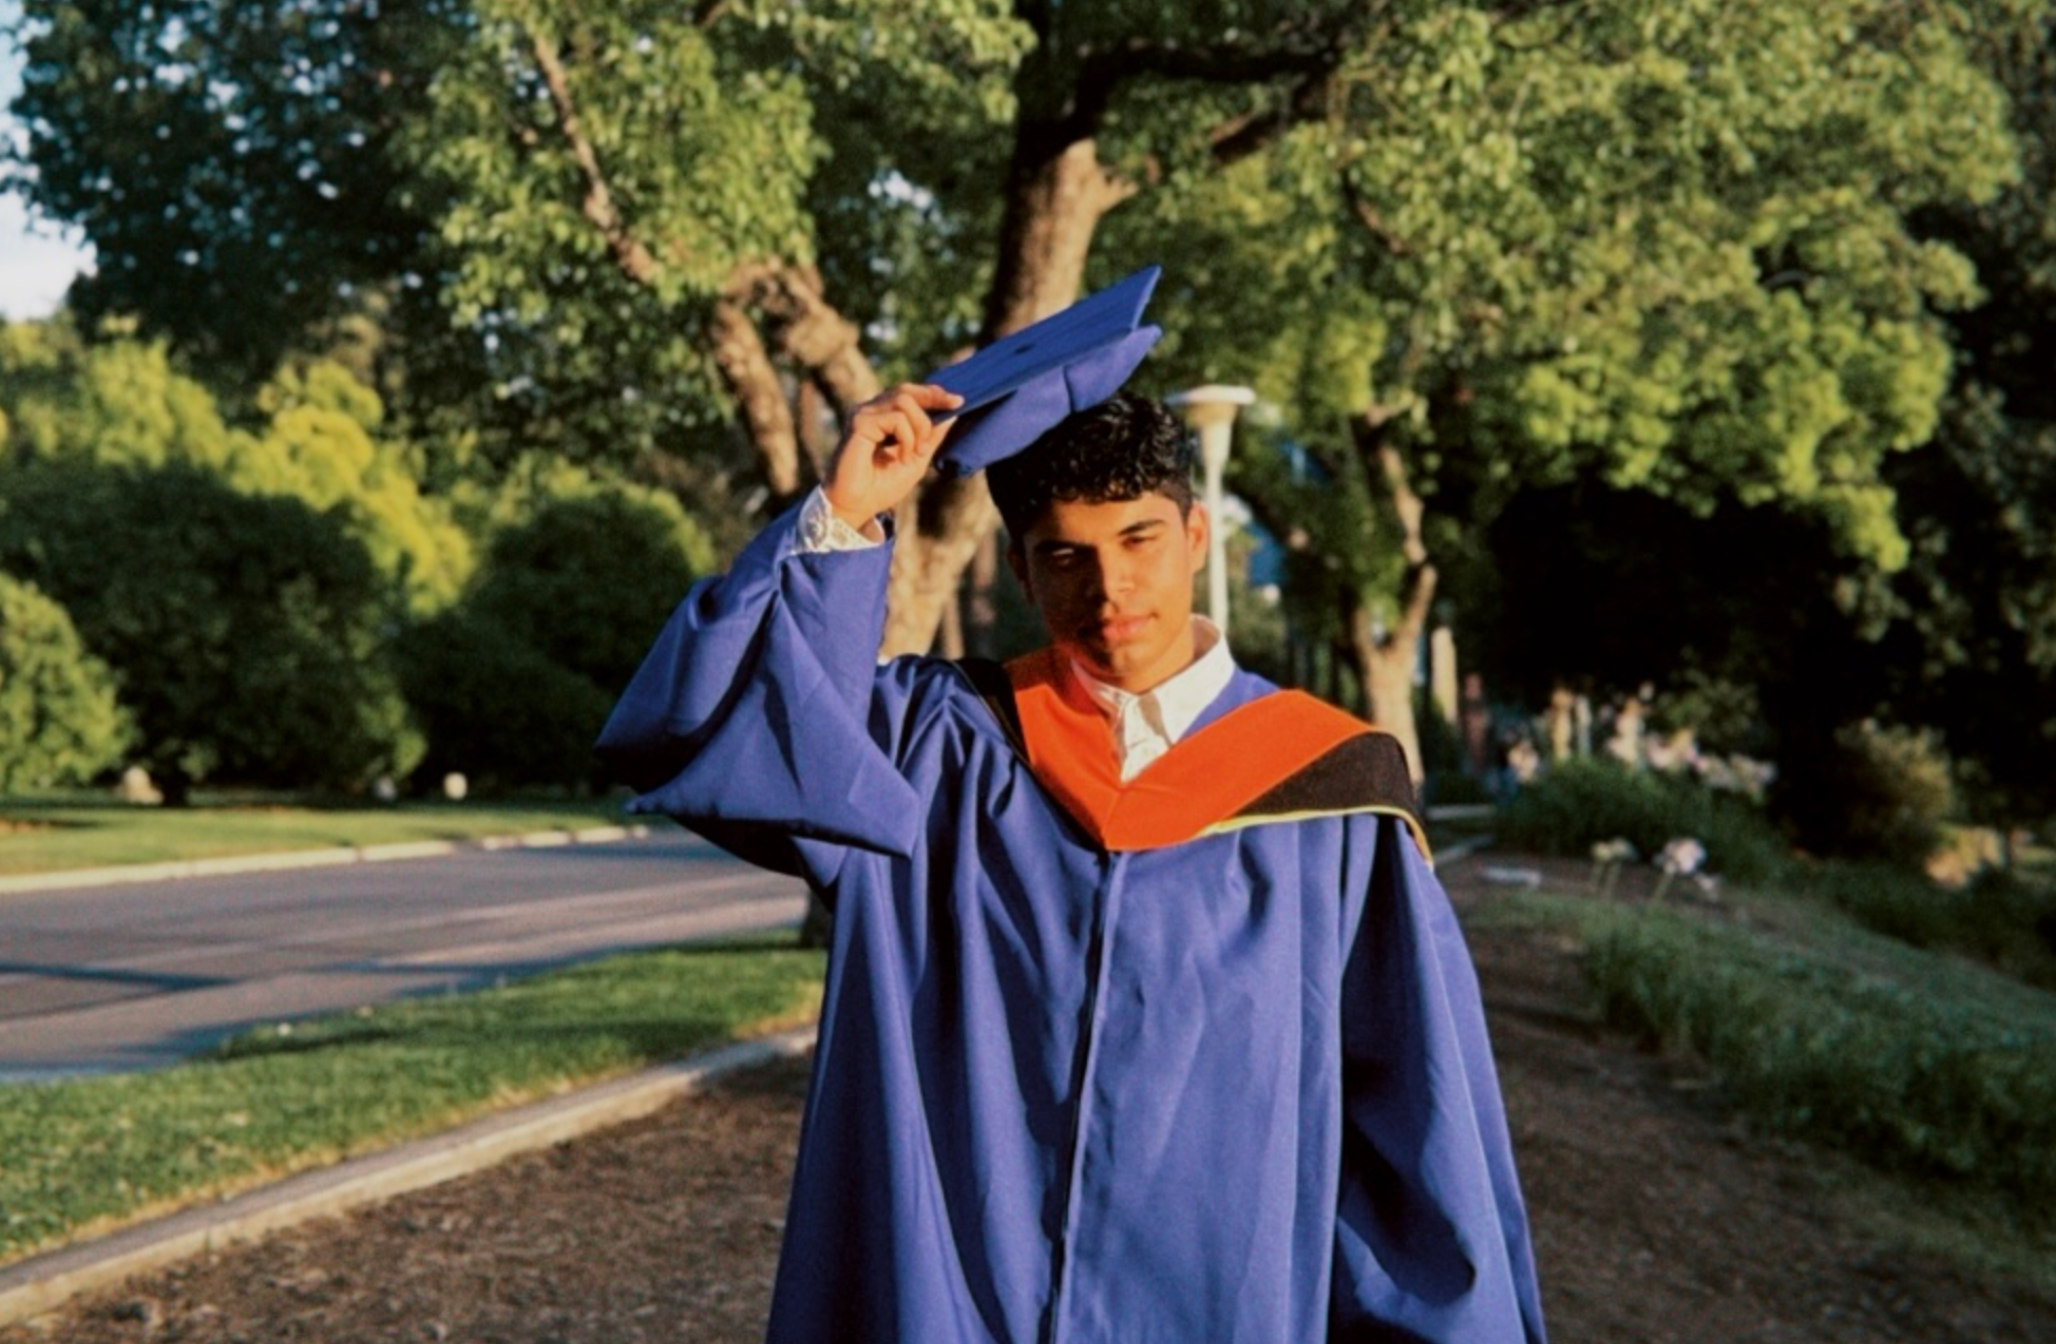
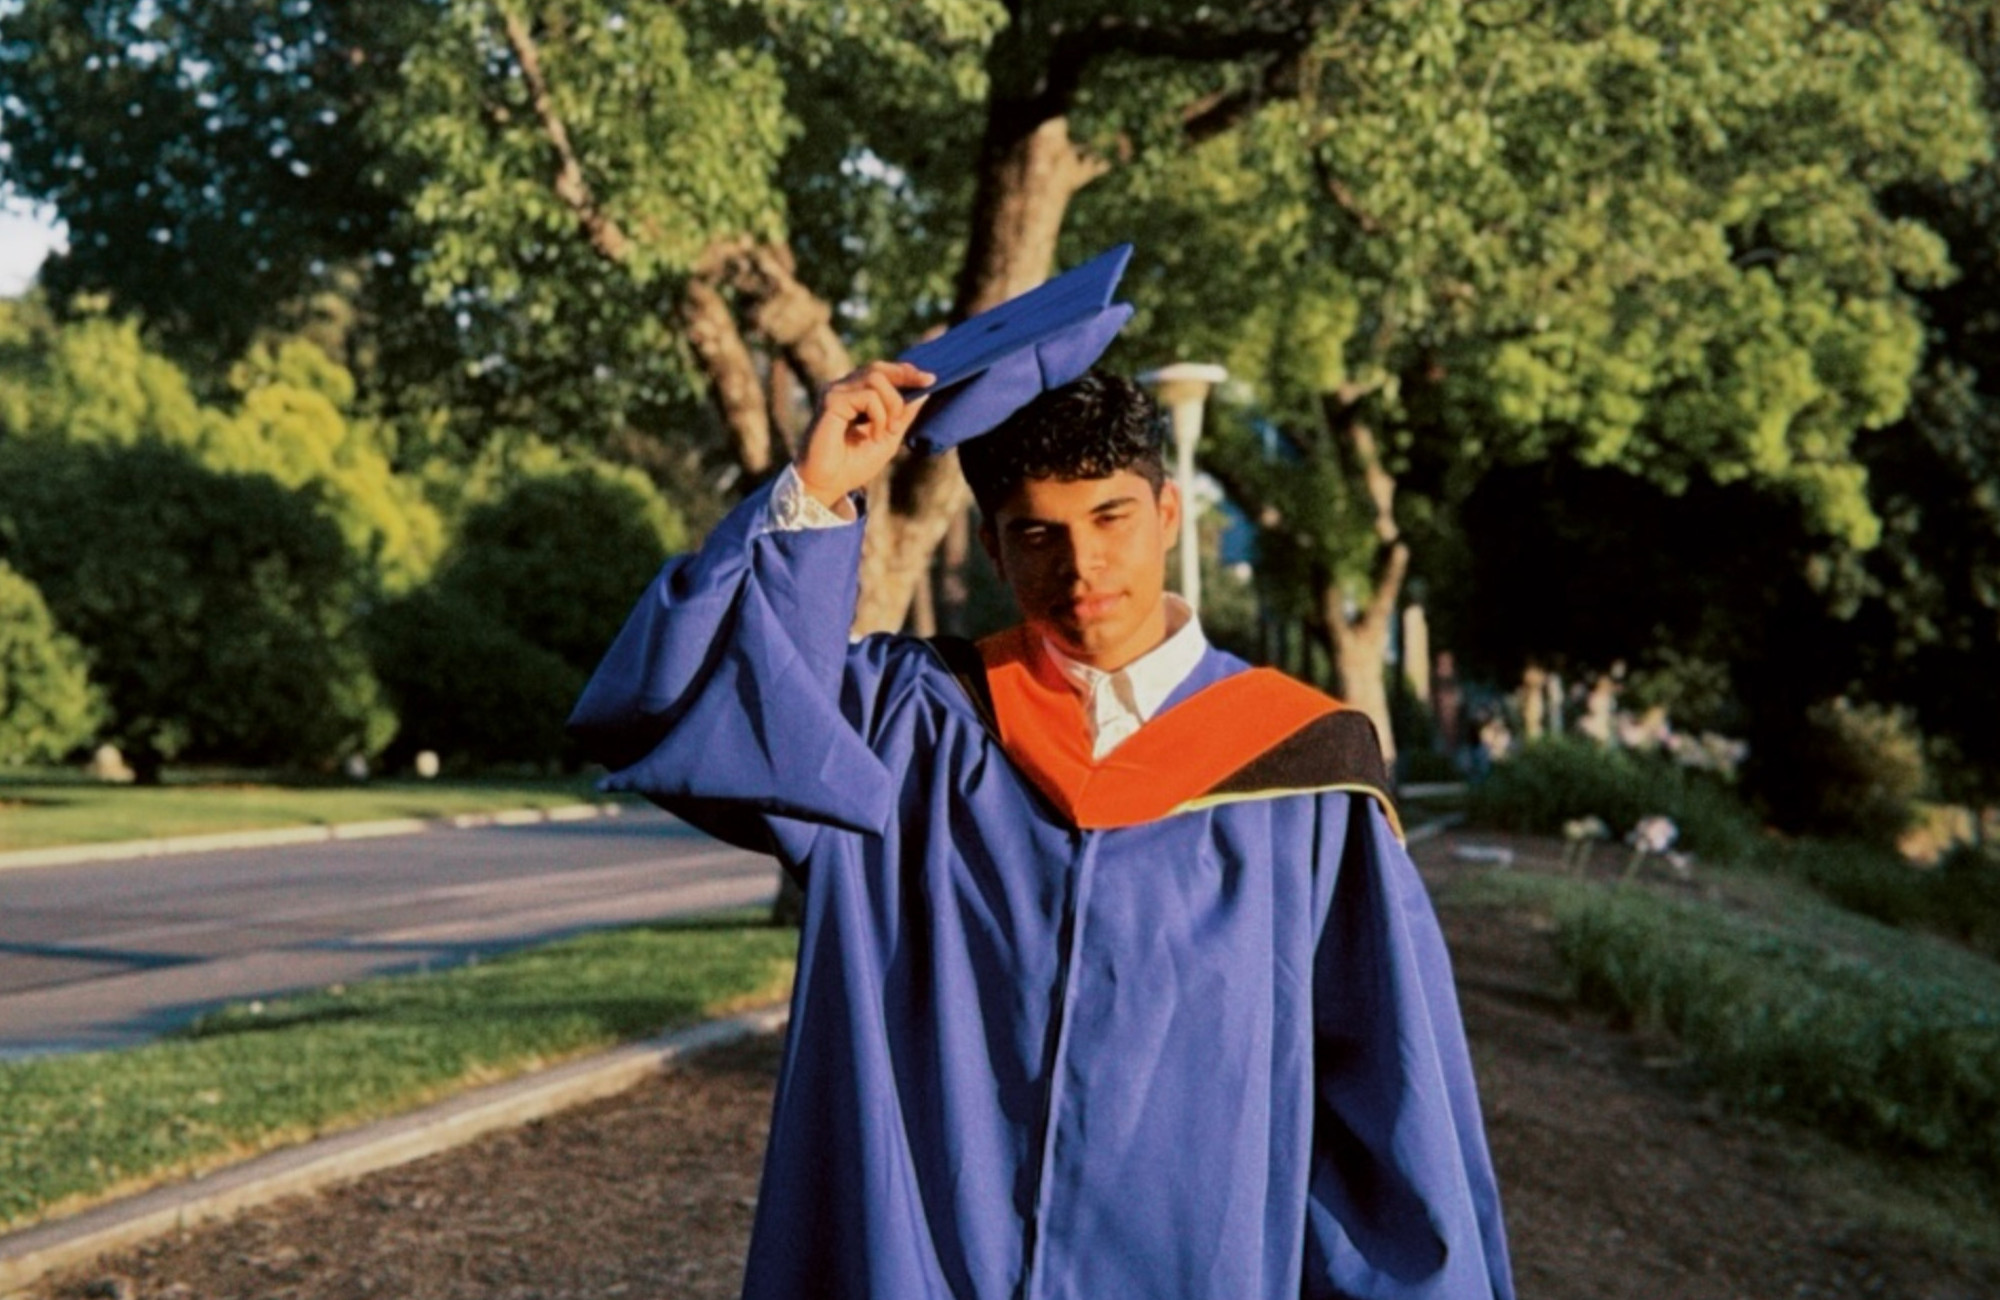
team update

diff --git a/_pages/team.md b/_pages/team.md
@@ -6,39 +6,41 @@ header:
   overlay_color: "#FFF"
   overlay_filter: "0"
   overlay_image: /assets/splash/brain3a.jpg
-manuel:
-  - image_path: /assets/team/manuel.jpg
+Manuel:
+  - image_path: /assets/team/2026_9_Manuel.jpg
     title: "Manuel Schottdorf, Ph.D."
-    excerpt: "Manuel studied physics before completing a Ph.D. at Max Planck in Germany and a Postdoc at the Princeton Neuroscience Institute. He enjoys developing scientific instrumentation and won numerous awards over the years, among them a Boehringer Ingelheim Fonds PhD Fellowship, an Otto Hahn medal, and a Burroughs Wellcome Fund's Career Award. In addition to science, Manuel's interests include labor rights and he was an organizing committee member for the postdoc union at Princeton.<br/><br/>
-    Find Manuel's full CV [here](/assets/pdfs/CV_manuel.pdf).&nbsp;&nbsp;&nbsp;&nbsp;Send Manuel an [e-mail](mailto:maschott-at-udel.edu)."
-suhyeong:
-  - image_path: /assets/team/2025_4_suhyeong.jpg
-    title: "SuHyeong Kim, Ph.D."
-    excerpt: "SuHyeong earned her Ph.D. in Neuroscience from the University of Delaware, where she was co-advised by Dr. Amy Griffin and Dr. Anna Klintsova. Her doctoral research focused on how developmental alcohol exposure alters cognitive function later in life, using in vivo electrophysiology, immunohistochemistry, and behavioral analysis. Through this work, she developed a growing interest in the complexity of neural circuits involved in memory and decision-making, particularly in how these circuits interact with external sensory inputs such as visual stimuli and perception. Outside the lab, SuHyeong enjoys photography and traveling."
-mubariz:
-  - image_path: /assets/team/2025_7_mubariz.jpg
+    excerpt: "Manuel studied physics before completing a Ph.D. at Max Planck in Germany and a Postdoc at the Princeton Neuroscience Institute. He enjoys developing scientific instrumentation and won numerous awards over the years, among them a Boehringer Ingelheim Fonds PhD Fellowship, an Otto Hahn medal, and a Burroughs Wellcome Fund's Career Award. In addition to science, Manuel's interests include labor rights and he was an organizing committee member for the postdoc union at Princeton.&nbsp;&nbsp;&nbsp;&nbsp;Send Manuel an [e-mail](mailto:maschott-at-udel.edu)."
+Mubariz:
+  - image_path: /assets/team/2025_7_Mubariz.jpg
     title: "Mubariz Mohammed"
-    excerpt: "Mubariz began his academic journey in computer science before pivoting toward healthcare research during his master’s in Computational Data Science at UC Riverside. His work focuses on bridging machine learning and biology, with particular interest in building equitable, interpretable models in healthcare and genomics. Mubariz’s multicultural upbringing informs a research philosophy rooted in equity, curiosity, and a deep appreciation for how diverse lived experiences intersect with data and health outcomes. Beyond research, Mubariz enjoys reconnecting with nature through hiking, travelling and exploring new cuisines."
-kathleen:
-  - image_path: /assets/team/2025_11_kathleen.jpg
-    title: "Kathleen Higgins"
-    excerpt: "Kathleen is an Honors dual-degree student in Computer Science and Political Science at the University of Delaware. At Schottdorf Lab, her research focuses on developing an Ordinary Differential Equation Variational Autoencoder (ODE-VAE) to model smooth latent dynamics on low-dimensional neural manifolds and reconstruct neuron firing patterns from calcium imaging data. She is also a researcher at the Sensify Lab, where she conducts human-computer interaction research on misinformation, examining how AI models conceptualize polarizing language in news media. Beyond her research, Kathleen is a coxswain on the University of Delaware’s Division I Women’s Rowing Team, plays jazz piano, and loves board games."  
-lindsey:
-  - image_path: /assets/team/2025_8_lindsey.jpg
-    title: "Lindsey Wang"
-    excerpt: "Lindsey is a Eugene DuPont Distinguished Scholar at UD, pursuing dual degrees in electrical engineering and applied mathematics. Her current research focuses on the performance of photomultiplier tubes, a critical component in advanced microscopy. Previously, she has developed image segmentation, registration, and alignment algorithms for large-scale drone-captured images of campus and microscopic lymph node image stacks alike. She hopes to strengthen her knowledge of two-photon microscopy systems to advance various modalities of biomedical imaging while pursuing her Ph.D. In addition to scientific endeavors, Lindsey speaks three languages, plays music, and enjoys going to the gym."  
+    excerpt: "Mubariz is a second year PhD student in the lab. His research broadly focuses on visual processing and decision making in the mouse visual cortex. In the lab, he performs survival surgeries, including cranial window implantation and viral injections, and trains mice on virtual reality visual decision making tasks such as the Towers task. He also enjoys the technical side of neuroscience, including building, aligning, and working with two-photon microscopes, as well as developing and maintaining databases for behavioral and imaging experiments. He previously earned a Master’s degree in Computational Data Science from the University of California, Riverside. Outside the lab, Mubariz enjoys hiking and camping, exploring new cities and cuisines, and learning about different cultures."
+Ethan:
+  - image_path: /assets/team/2026_9_Ethan.jpg
+    title: "Ethan Castanon"
+    excerpt: "Ethan Castanon is a Psychological & Brain Sciences Ph.D. student in the Schottdorf Lab with a foundation in psychology. His prior work focused on ocular behavior and eye-tracking in humans, which shaped his current focus on how animals explore and map their environments using a systems neuroscience approach. Aside from Ethan’s research, he loves to draw, play the electric guitar, and video games."
+Gayathri:
+  - image_path: /assets/team/2026_8_Gayathri.jpg
+    title: "Gayathri Kotti"
+    excerpt: "Gayathri is an undergraduate student studying neuroscience and physics at the University of Delaware. In the Schottdorf Lab, she is currently working on computational approaches to perception and generalization, including analyzing behavioral confusion matrices and modeling pairwise similarity structures. Her current interests include how psychological distance can be inferred from observed behavior and how these quantitative models can help explain perception and learning. Outside of research, Gayathri is an Indian classical dancer and loves to read classic literature."  
+Ryan:
+  - image_path: /assets/team/2026_8_Ryan.jpg
+    title: "Ryan Kirstein"
+    excerpt: "Ryan Kirstein is an undergraduate in the Schottdorf lab, majoring in psychology with a minor in Human Development and Family Sciences. Ryan is currently working with the mice to get them to vocalize at ultrasonic frequencies by themselves. Besides research Ryan plays rugby for the University of Delaware"  
 ---
 # PI
-{% include feature_row id="manuel" type="left" %}
+{% include feature_row id="Manuel" type="left" %}
 
 # The team
-{% include feature_row id="mubariz" type="left" %}
-{% include feature_row id="kathleen" type="left" %}
-{% include feature_row id="lindsey" type="left" %}
+{% include feature_row id="Mubariz" type="left" %}
+{% include feature_row id="Ethan" type="left" %}
+{% include feature_row id="Gayathri" type="left" %}
+{% include feature_row id="Ryan" type="left" %}
 
 # Alums
 {: style="text-align: left; font-size:1.5em;"}
 Dr. SuHyeong Kim, Ph.D. Now with Blackrock Neurotech as a Translational R&D Engineer.
+Kathleen Higgins, Now undergrad at Georgetown as a Goldwater Scholar.
+Lindsey Wang, Now graduate student at Northwestern U.
 
 <!-- {% include feature_row %} -->
 

diff --git a/_pages/publications.md b/_pages/publications.md
@@ -15,6 +15,7 @@ header:
 
 # Preprints
 {: style="text-align: left; font-size:1.5em;"}
+6. M. Schottdorf, C. Brody, D.W. Tank: [*"The geometry of knowledge in the hippocampal-prefrontal system"*](https://www.biorxiv.org/content/10.64898/2026.08.19.745564v1), BioRxiv, 2026.
 5. E.M. Diamanti, L. Pinto, M. Schottdorf, A.A. Russo, S.Y. Thiberge, C.D. Brody, D.W. Tank: [*"Working memory expands shared task representations in cortex"*](https://www.biorxiv.org/content/10.1101/2025.09.29.679345v1), BioRxiv, 2025.
 4. M. Schottdorf, S. Michelmann: [*"Canonical Representational Mapping for Cognitive Neuroscience"*](https://www.biorxiv.org/content/10.1101/2025.09.01.673485v1), BioRxiv, 2025.
 3. J. Cho*, S. Bolkan* et al. : [*"Striatal pathways oppositely shift cortical activity along the decision axis"*](https://www.biorxiv.org/content/10.1101/2025.07.29.667406v1), BioRxiv, 2025.
